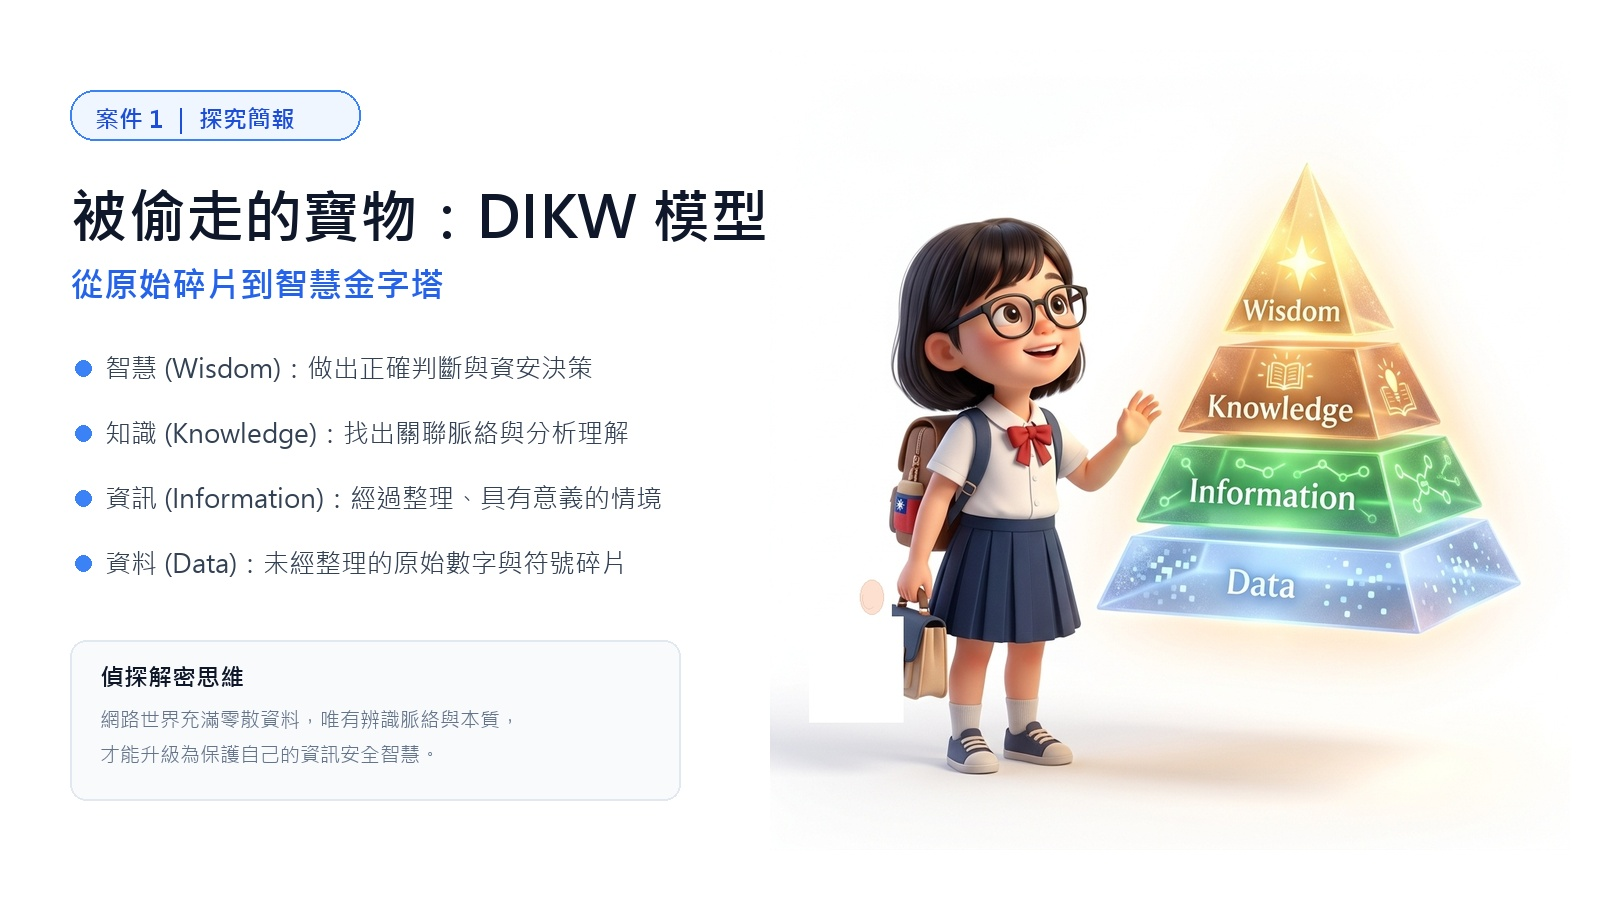
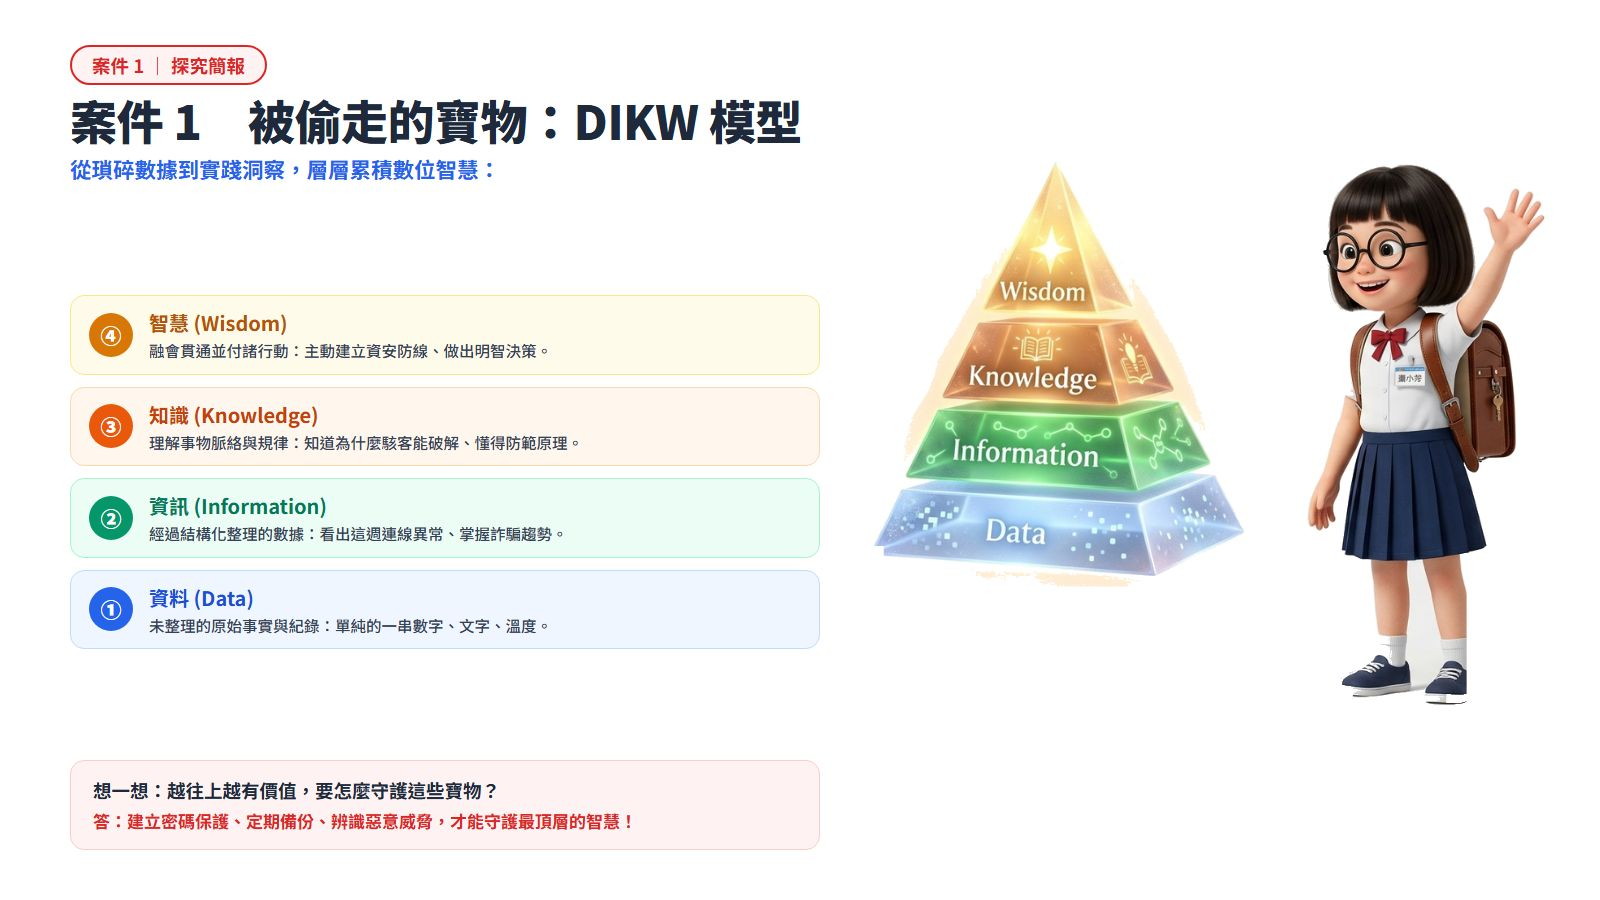
fix(case1): 替換案件一 DIKW 水晶金字塔左側平滑無瑕圖檔，並增強 YouTube 影片網址智能解析

Changed region(s): [[0.0312, 0.0311, 0.5, 0.9333], [0.4688, 0.1867, 0.9688, 0.9022]]

diff --git a/assets/cockpit.js b/assets/cockpit.js
@@ -189,8 +189,27 @@
 
     var v = U.video || {};
     var vsec = el('section', { class: 'cp-section', id: 'video' }, [el('h2', { text: '影片' })]);
-    if (v.youtube) vsec.appendChild(el('div', { class: 'video-wrap' }, [el('iframe', { src: 'https://www.youtube-nocookie.com/embed/' + v.youtube, title: '教學影片', loading: 'lazy', allowfullscreen: '' })]));
-    else vsec.appendChild(el('div', { class: 'placeholder', text: '影片請上傳 YouTube（不公開），再把影片 ID 填到 video.youtube' }));
+    function parseYtId(input) {
+      if (!input) return '';
+      var m = String(input).match(/(?:youtu\.be\/|youtube\.com\/(?:embed\/|v\/|watch\?v=|watch\?.+&v=))([\w-]{11})/);
+      return m ? m[1] : String(input).trim();
+    }
+    var yts = [];
+    if (Array.isArray(v.youtube)) {
+      yts = v.youtube.map(parseYtId).filter(Boolean);
+    } else if (v.youtube) {
+      var parsed = parseYtId(v.youtube);
+      if (parsed) yts.push(parsed);
+    }
+    if (yts.length > 0) {
+      yts.forEach(function (ytId) {
+        vsec.appendChild(el('div', { class: 'video-wrap', style: 'margin-bottom: 16px;' }, [
+          el('iframe', { src: 'https://www.youtube-nocookie.com/embed/' + ytId, title: '教學影片', loading: 'lazy', allowfullscreen: '' })
+        ]));
+      });
+    } else {
+      vsec.appendChild(el('div', { class: 'placeholder', text: '影片請上傳 YouTube（不公開），再把影片網址或 ID 填入 video.youtube' }));
+    }
     main.appendChild(vsec);
 
     var t = U.teacher || {};

diff --git a/units/g5-cyber-safety/index.html b/units/g5-cyber-safety/index.html
@@ -404,7 +404,7 @@
         {
           title: '案件 1　資料變寶藏',
           text: '資料經過整理，變成資訊；資訊找出規律，變成知識；知識拿來做決定，就是智慧。越往上越有價值，也越需要保護。',
-          slides: ['assets/final_case1.jpg?v=202610232030_perfect_nobag'],
+          slides: ['assets/final_case1.jpg?v=20261024_case1_dikw_perfect'],
           interactive: GAMES.dikw,
           quizzes: [
             {

diff --git a/skills/teaching-cockpit/SKILL.md b/skills/teaching-cockpit/SKILL.md
@@ -39,7 +39,16 @@ units/<slug>/               每個單元一個資料夾：index.html＋assets/*.
 - NotebookLM 沒有連線或認證過期時，跳過並在回報中註明，只用既有教材。
 
 ### 3. 圖片處理
-- 簡報 PDF 每頁轉圖（300 DPI），所有 PNG 轉 **1920×1080 JPG（quality 85）**，存到 `units/<slug>/assets/`，命名 `slide_01.jpg`、`01_重點名.jpg`。
+
+**先定風格、先打樣，才量產**（《資安偵探學院》先做佔位圖再重做、配色改了好幾次、裁切遮擋沒檢查，花掉 Kristy 很多時間，以下流程必走）：
+
+1. **給 Kristy 挑風格**：動手做任何單元圖片前，先提出 2–4 種繪圖風格讓她選（參考 `AGENTS.md` 的「4 大圖片風格庫」），每種附名稱、一句特色，能附範例圖就附範例圖。她選定後才往下做，不自己決定。
+2. **先打樣 1–2 張**：用選定風格做 1–2 張樣張（含配色），給 Kristy 看過、點頭後才做其餘圖片。不要先做文字佔位圖再整批重做。
+3. **全單元風格與配色一致**：同一單元所有圖片（投影片、資訊圖表、插圖）用同一種風格、同一組配色，做到一半不換。要換風格或配色，先問 Kristy。把定案的風格與色碼記在單元工作資料夾的 README，後續補圖照著做。
+4. **放進版面後自己先檢查**：每張圖放進投影片、資訊圖表或網頁後，逐張看一遍，確認人物的手、腳、臉沒被裁切，文字沒被遮住、沒被切斷或擠到換行，圖與文字卡片不重疊。檢查過才給 Kristy 看。
+5. **換圖先給她看**：已經放上去的圖要替換，先把新圖給 Kristy 看過、同意後才換，不直接覆蓋。舊圖移到 `待刪除/`。
+6. **生圖工具不限**：可以用 Canva、Gemini、ChatGPT 等任何工具，也可能是 Kristy 自己生圖。由她自己生圖時，先寫一段**共用風格描述**（風格、配色色碼、光線、背景、16:9 構圖、角色外型），再為每張圖寫一段可直接貼上的提示詞（共用風格描述＋該張的場景與動作），整理成一份清單（檔名對照提示詞）給她。她把圖交回後，由我統一裁切、縮放、轉檔，並照第 4 點檢查後再放進版面。
+7. **規格**：所有圖片轉成 **1600×900 JPG（quality 75）**，單張約 70–150 KB，存到 `units/<slug>/assets/`，命名 `slide_01.jpg`、`01_重點名.jpg`。簡報 PDF 每頁轉圖用 300 DPI 再縮成上述規格。
 - 原始 PNG、PDF、MP4 留在本機工作資料夾，不進 repo（`.gitignore` 已排除）。
 
 ### 4. 建單元頁
@@ -59,6 +68,7 @@ units/<slug>/               每個單元一個資料夾：index.html＋assets/*.
 - `find units/<slug> -size +50M` 無結果；整站 `du -sh` 遠低於 1 GB。
 - 搜尋單元檔，確認**沒有學生姓名、照片、聯絡方式**；抽籤只用座號。
 - 沒有用系統 Emoji 當圖示或項目符號。
+- 每張圖都看過：手、腳、臉沒被裁切，文字沒被遮住或切斷；全單元風格、配色一致。
 
 ### 6. 推上 GitHub
 - 擬繁體中文 commit 訊息（例：「新增 五上03 三角形與多邊形 駕駛艙」，正文列 3–5 條變動），給 Kristy 過目，點頭才推。
@@ -77,3 +87,4 @@ units/<slug>/               每個單元一個資料夾：index.html＋assets/*.
 3. 圖片一律 `.jpg`；影片放 YouTube（不公開），頁面只填影片 ID。
 4. 改共用的 `cockpit.js`／`cockpit.css` 會影響所有單元，改之前先說明影響範圍並確認。
 5. 刪檔不直接刪，移到 `待刪除/`。
+6. 圖片：先給 Kristy 挑風格、打樣 1–2 張通過才量產；全單元風格配色一致；生圖工具不限，Kristy 自己生圖時給她共用風格描述＋逐張提示詞；放進版面後自己檢查裁切與遮擋；換圖先給她看。

diff --git a/AGENTS.md b/AGENTS.md
@@ -53,7 +53,7 @@
 
 | 素材 | 放哪裡 |
 |---|---|
-| 1920×1080 JPG（簡報頁、資訊圖表） | repo：`units/<slug>/assets/` |
+| 1600×900 JPG q75（簡報頁、資訊圖表、插圖） | repo：`units/<slug>/assets/` |
 | 原始 PNG、簡報 PDF、PPTX | 本機工作資料夾，不進 repo |
 | 影片 MP4 | 上傳 YouTube（不公開），頁面只填影片 ID |
 
@@ -121,4 +121,14 @@
 2. **全套統一純白底 16:9**：所有插圖與簡報一律為純白底（`#FFFFFF`），徹底避免灰邊、不對稱色塊或切斷感。
 3. **文字卡片留白餘裕**：任何卡片與右側插圖間，一律預留至少 **50px~80px** 呼吸邊界，卡片內文字亦需留出充足邊距，絕不貼邊、不重疊。
 
+### 🖼 單元圖片製作流程（必走）
 
+> 起因：《資安偵探學院》先做佔位圖再整批重做、配色改了好幾次、裁切與遮擋沒先檢查，花掉 Kristy 很多時間。
+
+1. **先給 Kristy 挑風格**：做任何單元圖片前，從上方風格庫提出 2–4 種風格（附名稱、特色，能附範例圖就附），由 Kristy 選定，不自己決定。
+2. **先打樣 1–2 張**：用選定的風格與配色做 1–2 張樣張，Kristy 同意後才做其餘圖片；不先做文字佔位圖再重做。
+3. **風格與配色全單元一致**：定案後不中途更換；要換先問 Kristy。定案的風格名稱與色碼寫進單元工作資料夾的 README。
+4. **放進版面後自己先檢查**：每張圖放進投影片、資訊圖表或網頁後逐張檢查：手、腳、臉沒被裁切，文字沒被遮住、切斷或擠到換行，圖與文字卡片不重疊。檢查過才給 Kristy 看。
+5. **換圖先給她看**：已上線或已放進版面的圖，替換前先給 Kristy 看新圖、同意才換；舊圖移到 `待刪除/`，不直接覆蓋。
+6. **生圖工具不限**：Canva、Gemini、ChatGPT 或 Kristy 自己生圖都可以。她自己生圖時，先給她一段共用風格描述（風格、色碼、光線、背景、16:9、角色外型），再為每張圖寫可直接貼上的提示詞（共用描述＋該張場景），附檔名對照；圖交回後統一裁切、縮放、轉檔並照第 4 點檢查。
+7. **圖片規格**：1600×900 JPG、quality 75（單張約 70–150 KB），檔案不要太大。
